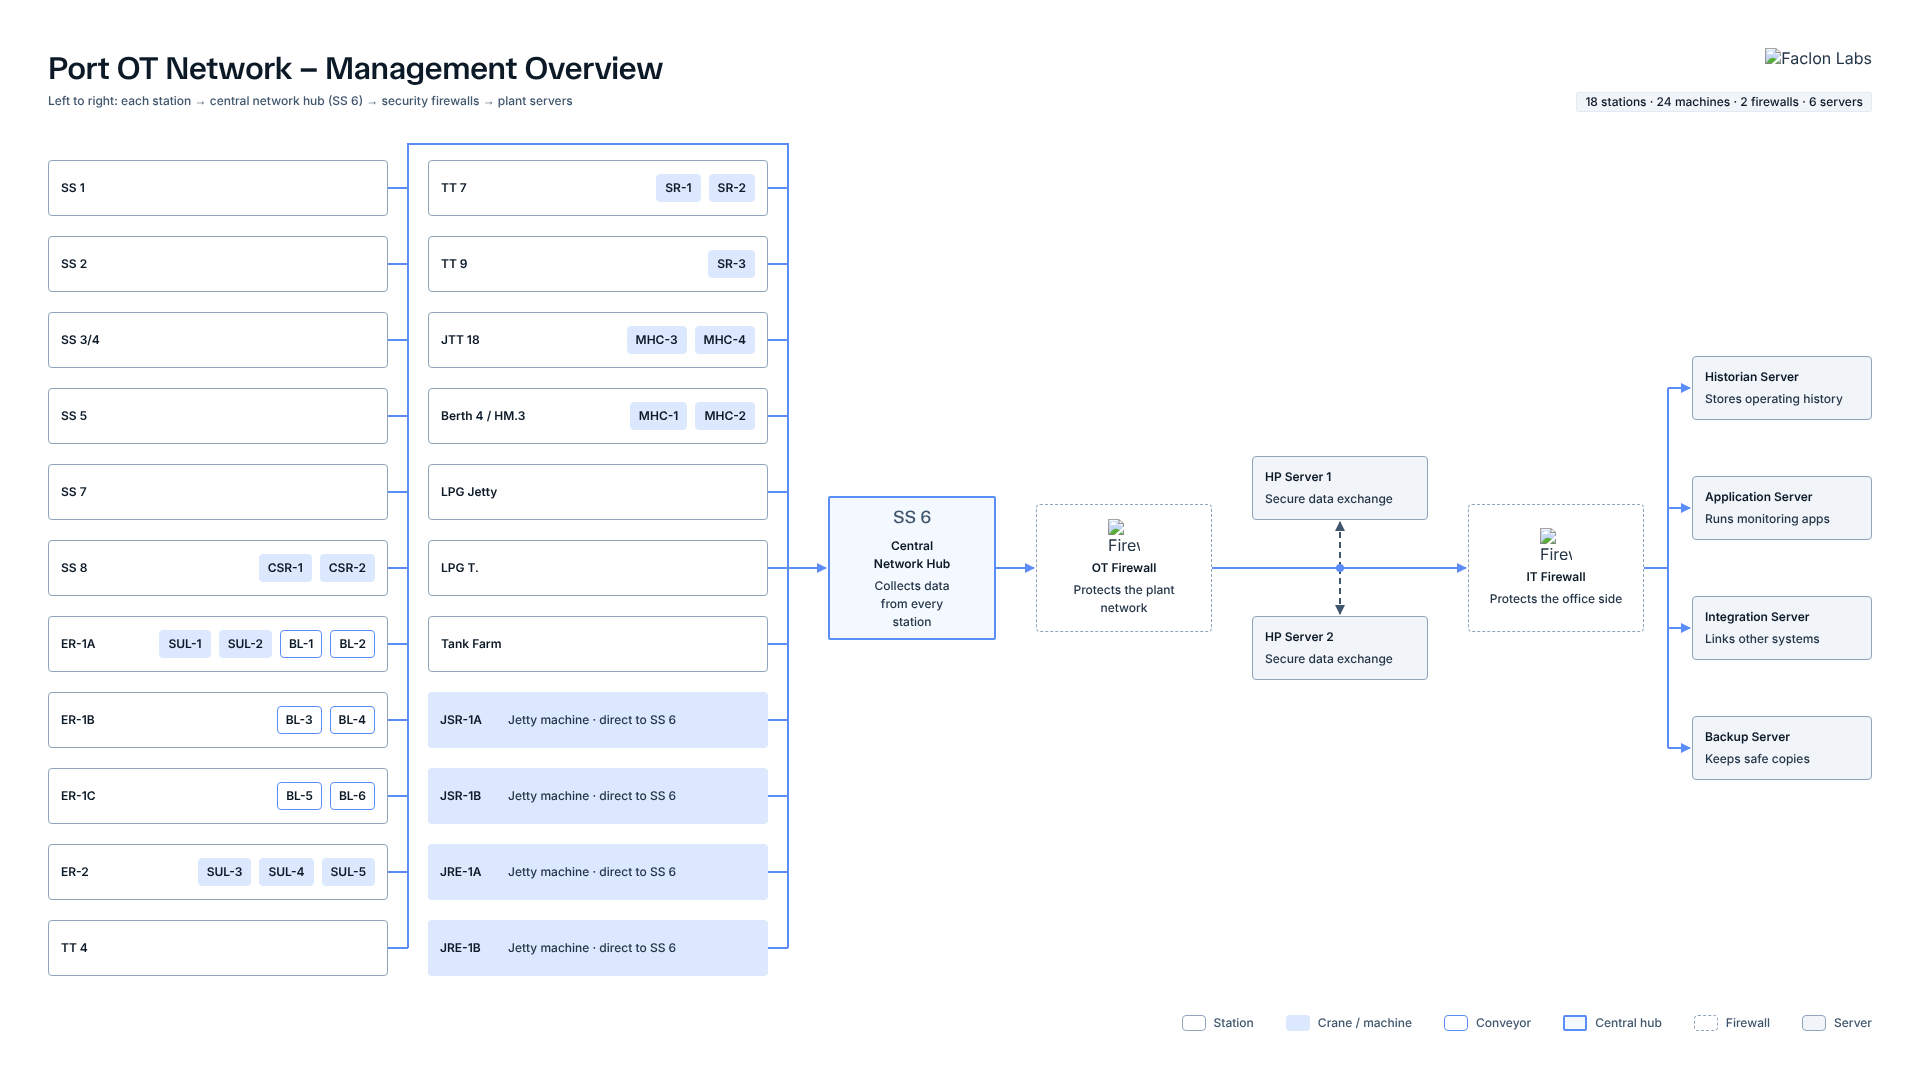
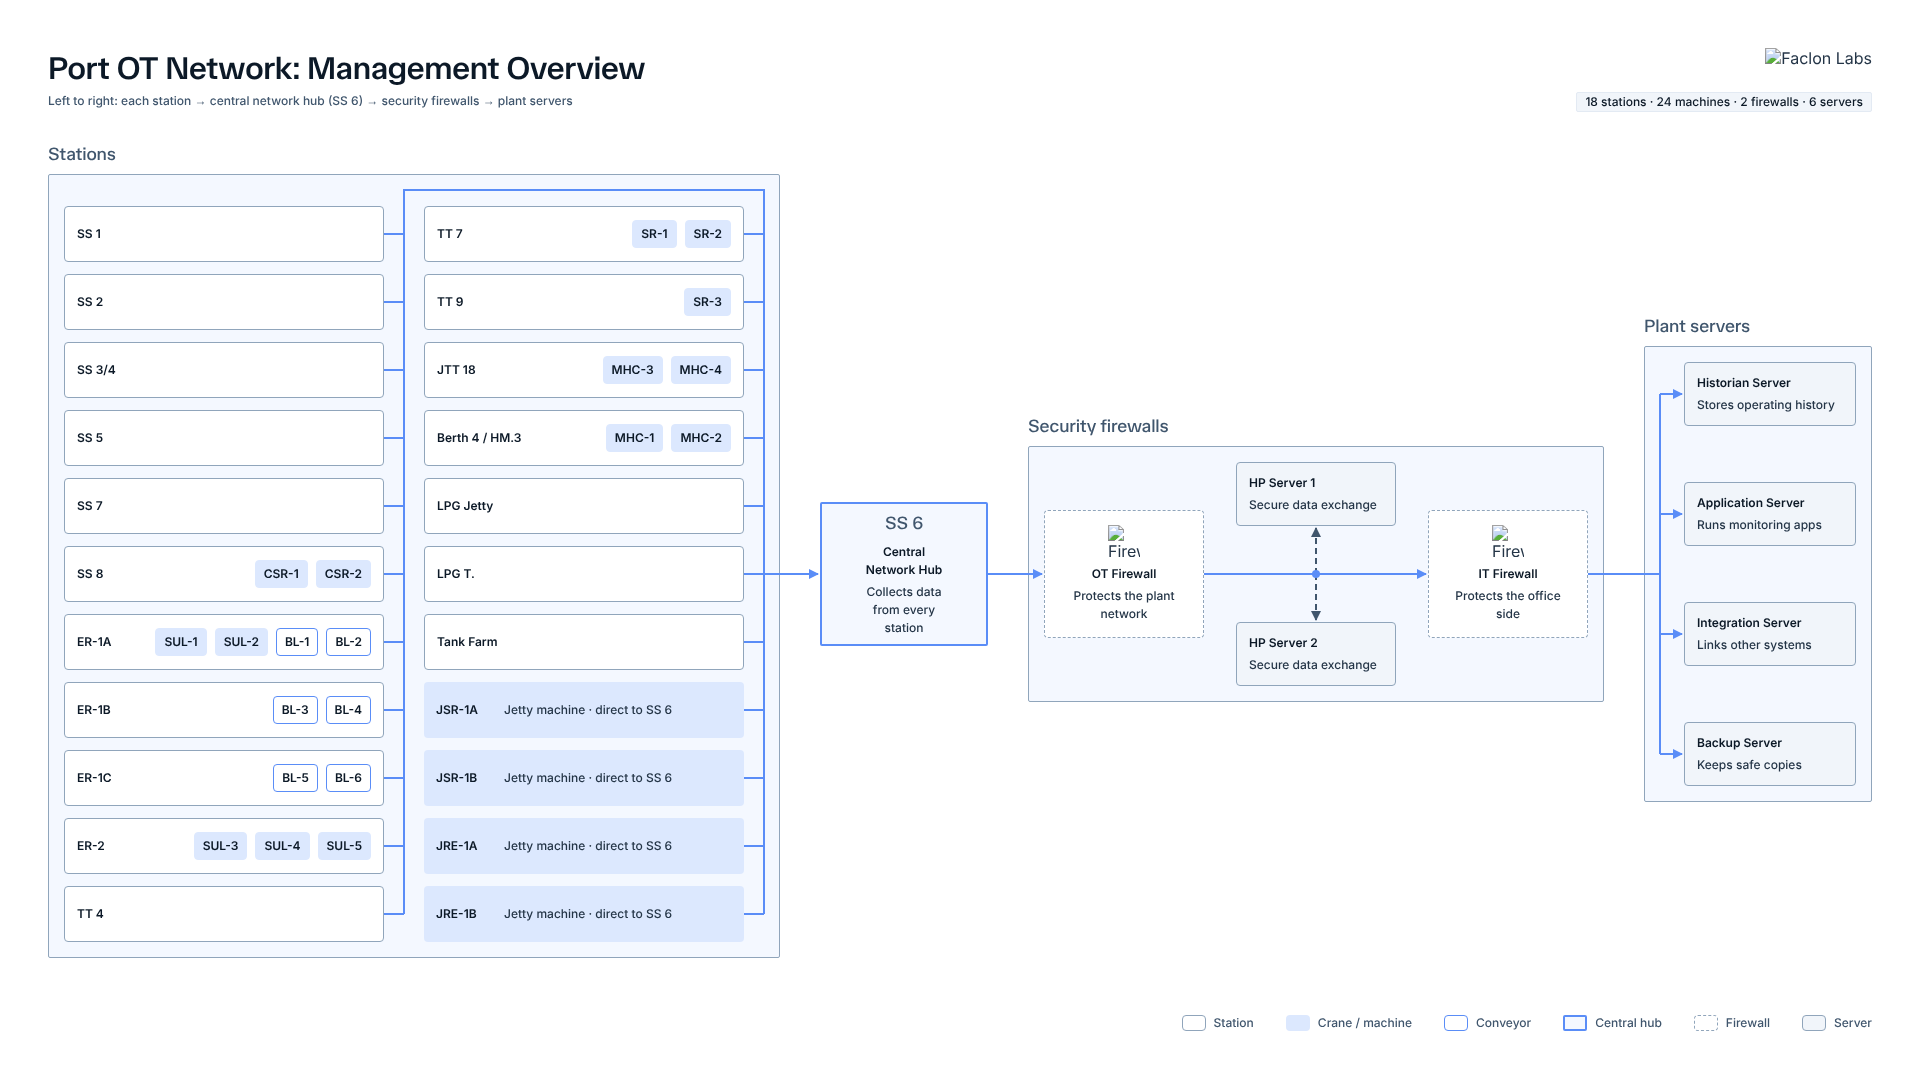
Group architecture columns into zones and use Faclon title style
Stations, Security firewalls and Plant servers zones with headings taken
from the subtitle; title dash replaced with a colon per Faclon voice.

Claude-Session: https://claude.ai/code/session_01RkuxpyCzSqDaA41m21KegA

diff --git a/port-ot-architecture/port-ot-network_architecture_faclon_2026-10-31.html b/port-ot-architecture/port-ot-network_architecture_faclon_2026-10-31.html
@@ -71,6 +71,10 @@ body { font-family: var(--font-body); color: var(--color-text-body); overflow: h
   border-radius: var(--radius-default); padding: 0 var(--space-8);
 }
 
+/* zones */
+.zone { position: absolute; background: var(--color-container-selected); border: var(--border-width-default) solid var(--color-border-strong); border-radius: var(--radius-default); }
+.zone-head { position: absolute; font-family: var(--font-heading); font-weight: 500; font-size: 18px; line-height: 24px; letter-spacing: -0.18px; color: var(--color-text-secondary); white-space: nowrap; }
+
 /* nodes */
 .node {
   position: absolute; display: flex; align-items: center; gap: var(--space-12);
@@ -129,18 +133,19 @@ svg.wires { position: absolute; inset: 0; width: 1920px; height: 1080px; overflo
 <body>
 <div class="stage">
 <div class="canvas" id="canvas">
-  <h1 class="title">Port OT Network – Management Overview</h1>
+  <h1 class="title">Port OT Network: Management Overview</h1>
   <p class="sub">Left to right: each station → central network hub (SS 6) → security firewalls → plant servers</p>
   <img class="logo" src="https://faclon-brand-mcp.vercel.app/assets/logos/faclon-labs-logo-blue.svg" alt="Faclon Labs">
   <span class="badge">18 stations · 24 machines · 2 firewalls · 6 servers</span>
+  <div class="zone-head" style="left:48px;top:142px">Stations</div><div class="zone" style="left:48px;top:174px;width:732px;height:784px"></div><div class="zone-head" style="left:1028px;top:414px">Security firewalls</div><div class="zone" style="left:1028px;top:446px;width:576px;height:256px"></div><div class="zone-head" style="left:1644px;top:314px">Plant servers</div><div class="zone" style="left:1644px;top:346px;width:228px;height:456px"></div>
   <svg class="wires" viewBox="0 0 1920 1080" aria-hidden="true">
     <defs>
       <marker id="ah-flow" viewBox="0 0 10 10" refX="9" refY="5" markerWidth="5" markerHeight="5" orient="auto"><path d="M0,0 L10,5 L0,10 z" style="fill:var(--color-brand-400)"/></marker>
       <marker id="ah-link" viewBox="0 0 10 10" refX="9" refY="5" markerWidth="5" markerHeight="5" orient="auto"><path d="M0,0 L10,5 L0,10 z" style="fill:var(--color-text-secondary)"/></marker>
     </defs>
-    <line class="flow" x1="388" y1="188" x2="408" y2="188"/><line class="flow" x1="768" y1="188" x2="788" y2="188"/><line class="flow" x1="388" y1="264" x2="408" y2="264"/><line class="flow" x1="768" y1="264" x2="788" y2="264"/><line class="flow" x1="388" y1="340" x2="408" y2="340"/><line class="flow" x1="768" y1="340" x2="788" y2="340"/><line class="flow" x1="388" y1="416" x2="408" y2="416"/><line class="flow" x1="768" y1="416" x2="788" y2="416"/><line class="flow" x1="388" y1="492" x2="408" y2="492"/><line class="flow" x1="768" y1="492" x2="788" y2="492"/><line class="flow" x1="388" y1="568" x2="408" y2="568"/><line class="flow" x1="768" y1="568" x2="788" y2="568"/><line class="flow" x1="388" y1="644" x2="408" y2="644"/><line class="flow" x1="768" y1="644" x2="788" y2="644"/><line class="flow" x1="388" y1="720" x2="408" y2="720"/><line class="flow" x1="768" y1="720" x2="788" y2="720"/><line class="flow" x1="388" y1="796" x2="408" y2="796"/><line class="flow" x1="768" y1="796" x2="788" y2="796"/><line class="flow" x1="388" y1="872" x2="408" y2="872"/><line class="flow" x1="768" y1="872" x2="788" y2="872"/><line class="flow" x1="388" y1="948" x2="408" y2="948"/><line class="flow" x1="768" y1="948" x2="788" y2="948"/><polyline class="flow" points="408,948 408,144 788,144 788,948"/><line class="flow" marker-end="url(#ah-flow)" x1="788" y1="568" x2="826" y2="568"/><line class="flow" marker-end="url(#ah-flow)" x1="996" y1="568" x2="1034" y2="568"/><line class="flow" marker-end="url(#ah-flow)" x1="1212" y1="568" x2="1466" y2="568"/><line class="link" marker-end="url(#ah-link)" x1="1340" y1="568" x2="1340" y2="522"/><line class="link" marker-end="url(#ah-link)" x1="1340" y1="568" x2="1340" y2="614"/><circle class="dot" cx="1340" cy="568" r="4"/><line class="flow" x1="1644" y1="568" x2="1668" y2="568"/><line class="flow" x1="1668" y1="388" x2="1668" y2="748"/><line class="flow" marker-end="url(#ah-flow)" x1="1668" y1="388" x2="1690" y2="388"/><line class="flow" marker-end="url(#ah-flow)" x1="1668" y1="508" x2="1690" y2="508"/><line class="flow" marker-end="url(#ah-flow)" x1="1668" y1="628" x2="1690" y2="628"/><line class="flow" marker-end="url(#ah-flow)" x1="1668" y1="748" x2="1690" y2="748"/>
+    <line class="flow" x1="384" y1="234" x2="404" y2="234"/><line class="flow" x1="744" y1="234" x2="764" y2="234"/><line class="flow" x1="384" y1="302" x2="404" y2="302"/><line class="flow" x1="744" y1="302" x2="764" y2="302"/><line class="flow" x1="384" y1="370" x2="404" y2="370"/><line class="flow" x1="744" y1="370" x2="764" y2="370"/><line class="flow" x1="384" y1="438" x2="404" y2="438"/><line class="flow" x1="744" y1="438" x2="764" y2="438"/><line class="flow" x1="384" y1="506" x2="404" y2="506"/><line class="flow" x1="744" y1="506" x2="764" y2="506"/><line class="flow" x1="384" y1="574" x2="404" y2="574"/><line class="flow" x1="744" y1="574" x2="764" y2="574"/><line class="flow" x1="384" y1="642" x2="404" y2="642"/><line class="flow" x1="744" y1="642" x2="764" y2="642"/><line class="flow" x1="384" y1="710" x2="404" y2="710"/><line class="flow" x1="744" y1="710" x2="764" y2="710"/><line class="flow" x1="384" y1="778" x2="404" y2="778"/><line class="flow" x1="744" y1="778" x2="764" y2="778"/><line class="flow" x1="384" y1="846" x2="404" y2="846"/><line class="flow" x1="744" y1="846" x2="764" y2="846"/><line class="flow" x1="384" y1="914" x2="404" y2="914"/><line class="flow" x1="744" y1="914" x2="764" y2="914"/><polyline class="flow" points="404,914 404,190 764,190 764,914"/><line class="flow" marker-end="url(#ah-flow)" x1="764" y1="574" x2="818" y2="574"/><line class="flow" marker-end="url(#ah-flow)" x1="988" y1="574" x2="1042" y2="574"/><line class="flow" marker-end="url(#ah-flow)" x1="1204" y1="574" x2="1426" y2="574"/><line class="link" marker-end="url(#ah-link)" x1="1316" y1="574" x2="1316" y2="528"/><line class="link" marker-end="url(#ah-link)" x1="1316" y1="574" x2="1316" y2="620"/><circle class="dot" cx="1316" cy="574" r="4"/><line class="flow" x1="1588" y1="574" x2="1660" y2="574"/><line class="flow" x1="1660" y1="394" x2="1660" y2="754"/><line class="flow" marker-end="url(#ah-flow)" x1="1660" y1="394" x2="1682" y2="394"/><line class="flow" marker-end="url(#ah-flow)" x1="1660" y1="514" x2="1682" y2="514"/><line class="flow" marker-end="url(#ah-flow)" x1="1660" y1="634" x2="1682" y2="634"/><line class="flow" marker-end="url(#ah-flow)" x1="1660" y1="754" x2="1682" y2="754"/>
   </svg>
-  <div class="node station" style="left:48px;top:160px;width:340px;height:56px"><span class="name">SS 1</span><span class="chips"></span></div><div class="node station" style="left:48px;top:236px;width:340px;height:56px"><span class="name">SS 2</span><span class="chips"></span></div><div class="node station" style="left:48px;top:312px;width:340px;height:56px"><span class="name">SS 3/4</span><span class="chips"></span></div><div class="node station" style="left:48px;top:388px;width:340px;height:56px"><span class="name">SS 5</span><span class="chips"></span></div><div class="node station" style="left:48px;top:464px;width:340px;height:56px"><span class="name">SS 7</span><span class="chips"></span></div><div class="node station" style="left:48px;top:540px;width:340px;height:56px"><span class="name">SS 8</span><span class="chips"><span class="chip crane">CSR-1</span><span class="chip crane">CSR-2</span></span></div><div class="node station" style="left:48px;top:616px;width:340px;height:56px"><span class="name">ER-1A</span><span class="chips"><span class="chip crane">SUL-1</span><span class="chip crane">SUL-2</span><span class="chip conv">BL-1</span><span class="chip conv">BL-2</span></span></div><div class="node station" style="left:48px;top:692px;width:340px;height:56px"><span class="name">ER-1B</span><span class="chips"><span class="chip conv">BL-3</span><span class="chip conv">BL-4</span></span></div><div class="node station" style="left:48px;top:768px;width:340px;height:56px"><span class="name">ER-1C</span><span class="chips"><span class="chip conv">BL-5</span><span class="chip conv">BL-6</span></span></div><div class="node station" style="left:48px;top:844px;width:340px;height:56px"><span class="name">ER-2</span><span class="chips"><span class="chip crane">SUL-3</span><span class="chip crane">SUL-4</span><span class="chip crane">SUL-5</span></span></div><div class="node station" style="left:48px;top:920px;width:340px;height:56px"><span class="name">TT 4</span><span class="chips"></span></div><div class="node station" style="left:428px;top:160px;width:340px;height:56px"><span class="name">TT 7</span><span class="chips"><span class="chip crane">SR-1</span><span class="chip crane">SR-2</span></span></div><div class="node station" style="left:428px;top:236px;width:340px;height:56px"><span class="name">TT 9</span><span class="chips"><span class="chip crane">SR-3</span></span></div><div class="node station" style="left:428px;top:312px;width:340px;height:56px"><span class="name">JTT 18</span><span class="chips"><span class="chip crane">MHC-3</span><span class="chip crane">MHC-4</span></span></div><div class="node station" style="left:428px;top:388px;width:340px;height:56px"><span class="name">Berth 4 / HM.3</span><span class="chips"><span class="chip crane">MHC-1</span><span class="chip crane">MHC-2</span></span></div><div class="node station" style="left:428px;top:464px;width:340px;height:56px"><span class="name">LPG Jetty</span><span class="chips"></span></div><div class="node station" style="left:428px;top:540px;width:340px;height:56px"><span class="name">LPG T.</span><span class="chips"></span></div><div class="node station" style="left:428px;top:616px;width:340px;height:56px"><span class="name">Tank Farm</span><span class="chips"></span></div><div class="node jetty" style="left:428px;top:692px;width:340px;height:56px"><span class="name">JSR-1A</span><span class="cap">Jetty machine · direct to SS 6</span></div><div class="node jetty" style="left:428px;top:768px;width:340px;height:56px"><span class="name">JSR-1B</span><span class="cap">Jetty machine · direct to SS 6</span></div><div class="node jetty" style="left:428px;top:844px;width:340px;height:56px"><span class="name">JRE-1A</span><span class="cap">Jetty machine · direct to SS 6</span></div><div class="node jetty" style="left:428px;top:920px;width:340px;height:56px"><span class="name">JRE-1B</span><span class="cap">Jetty machine · direct to SS 6</span></div><div class="hub" style="left:828px;top:496px;width:168px;height:144px"><div class="hub-title">SS 6</div><div class="name">Central<br>Network Hub</div><div class="cap">Collects data<br>from every<br>station</div></div><div class="fw" style="left:1036px;top:504px;width:176px;height:128px"><img src="https://faclon-brand-mcp.vercel.app/assets/icons/architecture/main-icons/firewall.png" alt="Firewall icon" width="32" height="32"><div class="name">OT Firewall</div><div class="cap">Protects the plant network</div></div><div class="fw" style="left:1468px;top:504px;width:176px;height:128px"><img src="https://faclon-brand-mcp.vercel.app/assets/icons/architecture/main-icons/firewall.png" alt="Firewall icon" width="32" height="32"><div class="name">IT Firewall</div><div class="cap">Protects the office side</div></div><div class="srv" style="left:1252px;top:456px;width:176px;height:64px"><div class="name">HP Server 1</div><div class="cap">Secure data exchange</div></div><div class="srv" style="left:1252px;top:616px;width:176px;height:64px"><div class="name">HP Server 2</div><div class="cap">Secure data exchange</div></div><div class="srv" style="left:1692px;top:356px;width:180px;height:64px"><div class="name">Historian Server</div><div class="cap">Stores operating history</div></div><div class="srv" style="left:1692px;top:476px;width:180px;height:64px"><div class="name">Application Server</div><div class="cap">Runs monitoring apps</div></div><div class="srv" style="left:1692px;top:596px;width:180px;height:64px"><div class="name">Integration Server</div><div class="cap">Links other systems</div></div><div class="srv" style="left:1692px;top:716px;width:180px;height:64px"><div class="name">Backup Server</div><div class="cap">Keeps safe copies</div></div>
+  <div class="node station" style="left:64px;top:206px;width:320px;height:56px"><span class="name">SS 1</span><span class="chips"></span></div><div class="node station" style="left:64px;top:274px;width:320px;height:56px"><span class="name">SS 2</span><span class="chips"></span></div><div class="node station" style="left:64px;top:342px;width:320px;height:56px"><span class="name">SS 3/4</span><span class="chips"></span></div><div class="node station" style="left:64px;top:410px;width:320px;height:56px"><span class="name">SS 5</span><span class="chips"></span></div><div class="node station" style="left:64px;top:478px;width:320px;height:56px"><span class="name">SS 7</span><span class="chips"></span></div><div class="node station" style="left:64px;top:546px;width:320px;height:56px"><span class="name">SS 8</span><span class="chips"><span class="chip crane">CSR-1</span><span class="chip crane">CSR-2</span></span></div><div class="node station" style="left:64px;top:614px;width:320px;height:56px"><span class="name">ER-1A</span><span class="chips"><span class="chip crane">SUL-1</span><span class="chip crane">SUL-2</span><span class="chip conv">BL-1</span><span class="chip conv">BL-2</span></span></div><div class="node station" style="left:64px;top:682px;width:320px;height:56px"><span class="name">ER-1B</span><span class="chips"><span class="chip conv">BL-3</span><span class="chip conv">BL-4</span></span></div><div class="node station" style="left:64px;top:750px;width:320px;height:56px"><span class="name">ER-1C</span><span class="chips"><span class="chip conv">BL-5</span><span class="chip conv">BL-6</span></span></div><div class="node station" style="left:64px;top:818px;width:320px;height:56px"><span class="name">ER-2</span><span class="chips"><span class="chip crane">SUL-3</span><span class="chip crane">SUL-4</span><span class="chip crane">SUL-5</span></span></div><div class="node station" style="left:64px;top:886px;width:320px;height:56px"><span class="name">TT 4</span><span class="chips"></span></div><div class="node station" style="left:424px;top:206px;width:320px;height:56px"><span class="name">TT 7</span><span class="chips"><span class="chip crane">SR-1</span><span class="chip crane">SR-2</span></span></div><div class="node station" style="left:424px;top:274px;width:320px;height:56px"><span class="name">TT 9</span><span class="chips"><span class="chip crane">SR-3</span></span></div><div class="node station" style="left:424px;top:342px;width:320px;height:56px"><span class="name">JTT 18</span><span class="chips"><span class="chip crane">MHC-3</span><span class="chip crane">MHC-4</span></span></div><div class="node station" style="left:424px;top:410px;width:320px;height:56px"><span class="name">Berth 4 / HM.3</span><span class="chips"><span class="chip crane">MHC-1</span><span class="chip crane">MHC-2</span></span></div><div class="node station" style="left:424px;top:478px;width:320px;height:56px"><span class="name">LPG Jetty</span><span class="chips"></span></div><div class="node station" style="left:424px;top:546px;width:320px;height:56px"><span class="name">LPG T.</span><span class="chips"></span></div><div class="node station" style="left:424px;top:614px;width:320px;height:56px"><span class="name">Tank Farm</span><span class="chips"></span></div><div class="node jetty" style="left:424px;top:682px;width:320px;height:56px"><span class="name">JSR-1A</span><span class="cap">Jetty machine · direct to SS 6</span></div><div class="node jetty" style="left:424px;top:750px;width:320px;height:56px"><span class="name">JSR-1B</span><span class="cap">Jetty machine · direct to SS 6</span></div><div class="node jetty" style="left:424px;top:818px;width:320px;height:56px"><span class="name">JRE-1A</span><span class="cap">Jetty machine · direct to SS 6</span></div><div class="node jetty" style="left:424px;top:886px;width:320px;height:56px"><span class="name">JRE-1B</span><span class="cap">Jetty machine · direct to SS 6</span></div><div class="hub" style="left:820px;top:502px;width:168px;height:144px"><div class="hub-title">SS 6</div><div class="name">Central<br>Network Hub</div><div class="cap">Collects data<br>from every<br>station</div></div><div class="fw" style="left:1044px;top:510px;width:160px;height:128px"><img src="https://faclon-brand-mcp.vercel.app/assets/icons/architecture/main-icons/firewall.png" alt="Firewall icon" width="32" height="32"><div class="name">OT Firewall</div><div class="cap">Protects the plant network</div></div><div class="fw" style="left:1428px;top:510px;width:160px;height:128px"><img src="https://faclon-brand-mcp.vercel.app/assets/icons/architecture/main-icons/firewall.png" alt="Firewall icon" width="32" height="32"><div class="name">IT Firewall</div><div class="cap">Protects the office side</div></div><div class="srv" style="left:1236px;top:462px;width:160px;height:64px"><div class="name">HP Server 1</div><div class="cap">Secure data exchange</div></div><div class="srv" style="left:1236px;top:622px;width:160px;height:64px"><div class="name">HP Server 2</div><div class="cap">Secure data exchange</div></div><div class="srv" style="left:1684px;top:362px;width:172px;height:64px"><div class="name">Historian Server</div><div class="cap">Stores operating history</div></div><div class="srv" style="left:1684px;top:482px;width:172px;height:64px"><div class="name">Application Server</div><div class="cap">Runs monitoring apps</div></div><div class="srv" style="left:1684px;top:602px;width:172px;height:64px"><div class="name">Integration Server</div><div class="cap">Links other systems</div></div><div class="srv" style="left:1684px;top:722px;width:172px;height:64px"><div class="name">Backup Server</div><div class="cap">Keeps safe copies</div></div>
   <div class="legend"><span class="leg-item"><span class="sw sw-station"></span>Station</span><span class="leg-item"><span class="sw sw-crane"></span>Crane / machine</span><span class="leg-item"><span class="sw sw-conv"></span>Conveyor</span><span class="leg-item"><span class="sw sw-hub"></span>Central hub</span><span class="leg-item"><span class="sw sw-fw"></span>Firewall</span><span class="leg-item"><span class="sw sw-srv"></span>Server</span></div>
 </div>
 </div>
